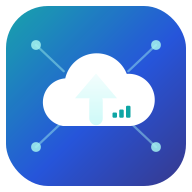
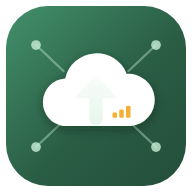
Farbdesign der Web-Oberfläche an die Companion-App angleichen
Brand-Tokens (ogc-teal/blue/indigo) auf das Waldgrün der App umgestellt,
ogc-sun als Amber-Akzent ergänzt und slate auf grünstichige Neutraltöne
umgefärbt (dunkles und helles Theme). Logo, PWA-Icons, Manifest,
theme-color und Konsolen-Banner ziehen mit.

Claude-Session: https://claude.ai/code/session_01N6PVgo5QLcAc8ukRJcc5dF

diff --git a/frontend/src/index.css b/frontend/src/index.css
@@ -2,10 +2,38 @@
 
 @custom-variant dark (&:is(.dark *));
 
+/*
+  Brand colours from the Companion app (OffgridCloud-Companion,
+  src/ui/theme.ts and assets/brand/icon.svg): forest green with a sun-amber
+  accent. The token names are historical (the UI used to be teal/blue/indigo)
+  and stay so the markup doesn't change:
+
+  - ogc-teal   primary green: links, active states, buttons
+  - ogc-blue   deep green, end of the button gradient
+  - ogc-indigo darkest green for tinted backgrounds
+  - ogc-sun    the amber of the app icon's sun, a sparing second accent
+
+  slate is re-tinted from blue to the Companion's green-grey neutrals (same
+  lightness steps as Tailwind's slate, hue 160, lower chroma), so the whole
+  UI — not just the accents — reads as the same product as the app.
+*/
 @theme {
-  --color-ogc-teal: #0ea5a4;
-  --color-ogc-blue: #1d4ed8;
-  --color-ogc-indigo: #312e81;
+  --color-ogc-teal: #45a574;
+  --color-ogc-blue: #22573d;
+  --color-ogc-indigo: #1b4632;
+  --color-ogc-sun: #f2b134;
+
+  --color-slate-50: oklch(98.4% 0.003 160);
+  --color-slate-100: oklch(96.8% 0.006 160);
+  --color-slate-200: oklch(92.9% 0.01 160);
+  --color-slate-300: oklch(86.9% 0.015 160);
+  --color-slate-400: oklch(70.4% 0.02 160);
+  --color-slate-500: oklch(55.4% 0.022 160);
+  --color-slate-600: oklch(44.6% 0.02 160);
+  --color-slate-700: oklch(37.2% 0.019 160);
+  --color-slate-800: oklch(27.9% 0.017 160);
+  --color-slate-900: oklch(20.8% 0.015 160);
+  --color-slate-950: oklch(12.9% 0.012 160);
 }
 
 /*
@@ -58,7 +86,8 @@ html.dark {
     white/5–white/10 hover tints, borders and rings turn into dark ones.
   - the light accent shades used as text on dark (red/emerald/amber/sky/
     orange 50–400) map to their dark counterparts; 500+ are unchanged.
-  - brand: a deeper teal for legible links, a pale indigo for backgrounds.
+  - brand: the Companion's light-mode green for legible links, its pale
+    tonal green for backgrounds, a dark amber for sun-coloured text.
 
   Opacity utilities resolve through color-mix(var(--color-…)), which is why
   theme.ts only offers light mode where color-mix() is supported. The retro
@@ -67,18 +96,18 @@ html.dark {
 html.light:not(.retro) {
   color-scheme: light;
 
-  --color-white: oklch(20.8% 0.042 265.755);
+  --color-white: oklch(20.8% 0.015 160);
 
-  --color-slate-50: oklch(12.9% 0.042 264.695);
-  --color-slate-100: oklch(20.8% 0.042 265.755);
-  --color-slate-200: oklch(27.9% 0.041 260.031);
-  --color-slate-300: oklch(37.2% 0.044 257.287);
-  --color-slate-400: oklch(44.6% 0.043 257.281);
-  --color-slate-600: oklch(70.4% 0.04 256.788);
-  --color-slate-700: oklch(92.9% 0.013 255.508);
+  --color-slate-50: oklch(12.9% 0.012 160);
+  --color-slate-100: oklch(20.8% 0.015 160);
+  --color-slate-200: oklch(27.9% 0.017 160);
+  --color-slate-300: oklch(37.2% 0.019 160);
+  --color-slate-400: oklch(44.6% 0.02 160);
+  --color-slate-600: oklch(70.4% 0.02 160);
+  --color-slate-700: oklch(92.9% 0.01 160);
   --color-slate-800: oklch(100% 0 0);
-  --color-slate-900: oklch(96.8% 0.007 247.896);
-  --color-slate-950: oklch(92.9% 0.013 255.508);
+  --color-slate-900: oklch(96.8% 0.006 160);
+  --color-slate-950: oklch(92.9% 0.01 160);
 
   --color-red-50: oklch(39.6% 0.141 25.723);
   --color-red-100: oklch(44.4% 0.177 26.899);
@@ -106,8 +135,9 @@ html.light:not(.retro) {
   --color-sky-300: oklch(50% 0.134 242.749);
   --color-sky-400: oklch(58.8% 0.158 241.966);
 
-  --color-ogc-teal: #0d8584;
-  --color-ogc-indigo: #c7d2fe;
+  --color-ogc-teal: #2e7d57;
+  --color-ogc-indigo: #d0e8d6;
+  --color-ogc-sun: #8b5000;
 }
 
 /*
@@ -129,9 +159,9 @@ html.light:not(.retro)
     [class*="bg-black/7"]
   ):not([class*="inset-0"]) {
   --color-white: #fff;
-  --color-slate-100: oklch(96.8% 0.007 247.896);
-  --color-slate-200: oklch(92.9% 0.013 255.508);
-  --color-slate-300: oklch(86.9% 0.022 252.894);
+  --color-slate-100: oklch(96.8% 0.006 160);
+  --color-slate-200: oklch(92.9% 0.01 160);
+  --color-slate-300: oklch(86.9% 0.015 160);
 }
 
 body {

diff --git a/frontend/src/console-banner.ts b/frontend/src/console-banner.ts
@@ -28,11 +28,11 @@ export async function fetchVersion(): Promise<string> {
 // Shared style fragments so every line reads as one system.
 const S = {
   brand:
-    "color:#0EA5A4;font:700 22px/1.4 ui-monospace,SFMono-Regular,Menlo,monospace;" +
-    "text-shadow:0 0 10px rgba(14,165,164,0.45)",
-  tagline: "color:#94a3b8;font:400 12px ui-monospace,monospace",
-  label: "color:#0EA5A4;font:600 12px ui-monospace,monospace",
-  value: "color:#e2e8f0;font:400 12px ui-monospace,monospace",
+    "color:#45A574;font:700 22px/1.4 ui-monospace,SFMono-Regular,Menlo,monospace;" +
+    "text-shadow:0 0 10px rgba(69,165,116,0.45)",
+  tagline: "color:#96a49b;font:400 12px ui-monospace,monospace",
+  label: "color:#45A574;font:600 12px ui-monospace,monospace",
+  value: "color:#e2eae5;font:400 12px ui-monospace,monospace",
   warnHead:
     "color:#fecaca;background:#7f1d1d;font:700 13px ui-monospace,monospace;padding:2px 8px",
   warnBody: "color:#fca5a5;font:400 12px/1.5 ui-monospace,monospace",

diff --git a/frontend/src/pages/Folders.tsx b/frontend/src/pages/Folders.tsx
@@ -193,7 +193,7 @@ export default function Folders() {
                         key={g.id}
                         onClick={() => toggleGroupAccess(f, g.id)}
                         className={`rounded-full px-3 py-1 text-sm transition ${
-                          on ? "bg-ogc-blue/20 text-ogc-blue ring-1 ring-ogc-blue/40" : "bg-slate-700/50 text-slate-400 hover:text-white"
+                          on ? "bg-ogc-sun/15 text-ogc-sun ring-1 ring-ogc-sun/40" : "bg-slate-700/50 text-slate-400 hover:text-white"
                         }`}
                       >
                         {on ? "✓ " : ""}⛂ {g.name}

diff --git a/frontend/index.html b/frontend/index.html
@@ -5,7 +5,7 @@
     <link rel="icon" type="image/svg+xml" href="/logo-icon.svg" />
     <meta name="viewport" content="width=device-width, initial-scale=1.0, viewport-fit=cover" />
     <link rel="manifest" href="/manifest.webmanifest" />
-    <meta name="theme-color" content="#0EA5A4" />
+    <meta name="theme-color" content="#45A574" />
     <link rel="apple-touch-icon" href="/icon-192.png" />
     <meta name="apple-mobile-web-app-capable" content="yes" />
     <meta name="apple-mobile-web-app-title" content="OffgridCloud" />

diff --git a/frontend/src/pages/Dashboard.tsx b/frontend/src/pages/Dashboard.tsx
@@ -8,7 +8,7 @@ import { useEvents, type FolderSnapshot } from "../events";
 const ACCENTS = [
   "from-ogc-teal to-ogc-blue",
   "from-ogc-blue to-ogc-indigo",
-  "from-ogc-indigo to-ogc-teal",
+  "from-ogc-sun to-ogc-teal",
 ];
 
 export default function Dashboard() {

diff --git a/CONTRIBUTING.md b/CONTRIBUTING.md
@@ -41,8 +41,9 @@ einziger Prozess aus.
 
 - **Backend:** ruff-sauber, Type-Hints, kleine fokussierte Module.
 - **Frontend:** TypeScript strict mode, Tailwind fürs Styling, Brand-Palette
-  (`ogc-teal` / `ogc-blue` / `ogc-indigo`, definiert als `@theme` in
-  `frontend/src/index.css`).
+  (`ogc-teal` / `ogc-blue` / `ogc-indigo` / `ogc-sun`, definiert als `@theme`
+  in `frontend/src/index.css`). Die Farben kommen aus der Companion-App
+  (Waldgrün mit Sonnen-Amber); die Namen sind historisch.
 - **Commits:** klare Nachrichten im Imperativ.
 - **Raspberry Pi 3 zuerst:** die Laufzeit auf einen Prozess beschränken;
   keine Dauer-Dienste (Redis o. Ä.) ohne triftigen Grund. Nie ganze Mediendateien

diff --git a/CHANGELOG.md b/CHANGELOG.md
@@ -6,6 +6,10 @@ Alle nennenswerten Änderungen an OffgridCloud. Die neueste Version steht oben.
 
 ## [Unreleased]
 
+### 🎨 Design
+
+- **Farben wie in der Companion-App:** Web-Oberfläche und Logo tragen jetzt das Waldgrün der App mit dem Sonnen-Amber als Zweitfarbe statt Teal/Blau/Indigo. Auch die Grautöne sind vom blaustichigen Slate auf die grünstichigen Neutraltöne der App umgestellt, im dunklen wie im hellen Theme. Kontraste bleiben auf dem bisherigen Niveau.
+
 ## [0.8.3] – 2026-10-25
 
 Ruhigere Verbindungsmeldungen: Kurze WLAN-Aussetzer lösen kein „Wieder online“ mehr aus, und echte Ausfälle kommen mit Dauer.
